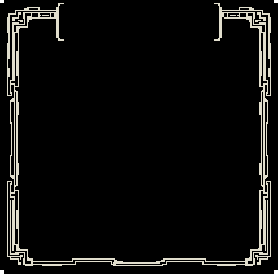
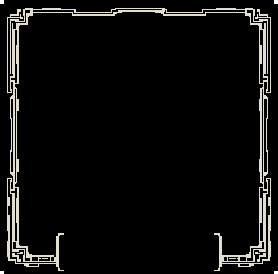
token display in progress

Changed region(s): [[0.0, 0.0, 0.9784, 0.9927]]

diff --git a/components/Marketplace/TokenDisplay.tsx b/components/Marketplace/TokenDisplay.tsx
@@ -10,9 +10,15 @@ const wizData = wizards as { [wizardId: string]: any };
 const ListingDisplay = styled.div`
   width: 200px;
   height: 300px;
-  margin: var(--sp0);
+  margin: var(--sp2);
   display: flex;
   flex-direction: column;
+
+  border-image-source: url(/static/img/newframe.png);
+  border-image-slice: 30;
+  border-image-width: 34px;
+  border-image-outset: 12;
+  border-style: solid;
 
   @media only screen and (max-width: 600px) {
     width: 150px;
@@ -26,21 +32,18 @@ const ListingDisplay = styled.div`
 `;
 
 const ListingImage = styled.img`
-  border-style: solid;
   border-width: 4px;
-  border-color: var(--darkGray);
-  border-radius: 10px;
+  border-radius: 30px;
 
   min-width: 200px;
   min-height: 200px;
   max-height: 50vw;
   max-width: 50vw;
 
-  padding: var(--sp-1);
+  padding: var(--sp1);
 
   :hover {
     cursor: pointer;
-    border-color: var(--mediumGray);
   }
 
   @media only screen and (max-width: 600px) {
@@ -68,10 +71,13 @@ const MarketText = styled.p`
   
   line-height: 1.3;
   max-width: 20ch;
+  min-height: 5ex;
   display: -webkit-box;
-  -webkit-line-clamp: 1;
+  -webkit-line-clamp: 2;
   -webkit-box-orient: vertical;
   overflow: hidden;
+
+  margin-bottom: var(--sp-1);
 
   @media only screen and (max-width: 600px) {
     max-width: 15ch;
@@ -86,7 +92,8 @@ const PriceDisplay = styled.div`
 
   display: flex;
   flex-direction: row;
-  justify-content: space-between;
+  justify-content: center;
+  text-align: center;
 `;
 
 const MarketIcon = styled.img`
@@ -102,6 +109,8 @@ const MarketIcon = styled.img`
   }
 
 `;
+
+//{ source in MARKETS && <MarketIcon src={MARKETS[source].image} title={MARKETS[source].name}/> }
 
 export default function TokenDisplay({
   contract,
@@ -177,9 +186,8 @@ export default function TokenDisplay({
           }}
         >
           <div 
-            style={{display: 'flex', flexDirection: 'row', justifyContent: 'space-between', alignItems: 'center'}}>
+            style={{display: 'flex', flexDirection: 'row', justifyContent: 'center', alignItems: 'center', textAlign: 'center'}}>
             <MarketText title={name}>{name}</MarketText>
-            { source in MARKETS && <MarketIcon src={MARKETS[source].image} title={MARKETS[source].name}/> }
           </div>
           <PriceDisplay>
             {price &&

diff --git a/pages/new/[contractSlug].tsx b/pages/new/[contractSlug].tsx
@@ -22,7 +22,7 @@ const MidHeader = styled.div`
   align-items: center;
   justify-content: center;
 
-  margin-top: -4ch;
+  margin-top: -8ch;
   margin-bottom: var(--sp1);
 `;
 
@@ -39,6 +39,13 @@ const ScrollContainer = styled.div`
   overflow: hidden;
 
   padding-bottom: 200px;
+`;
+
+const Scrim = styled.div`
+  position: absolute;
+  z-index: 1;
+  bottom: -5px;
+  max-width: 65%;
 `;
 
 export default function Marketplace({
@@ -119,10 +126,6 @@ export default function Marketplace({
         description={`Like ${CONTRACTS[contract].singular}, Buy ${CONTRACTS[contract].singular}`}
         image={`/static/img/marketplace/${CONTRACTS[contract].display.toLowerCase()}-banner.png`}
       >
-        <MidHeader>
-          <CollectionStats items={items} floor={floor} bid={bid} contract={contract} />
-          <MainToggle contract={contract} activity={showActivity} />
-        </MidHeader>
         <Main>
           <Sidebar 
             contract={contract} 
@@ -133,6 +136,10 @@ export default function Marketplace({
             selectionChange={null}
           />
           <div style={{width: '65vw'}}>
+          <MidHeader>
+          <CollectionStats items={items} floor={floor} bid={bid} contract={contract} />
+          <MainToggle contract={contract} activity={showActivity} />
+        </MidHeader>
           { listings.length > 0 || loaded ? (
               <InfiniteScroll
                 dataLength={listings.length}
@@ -167,6 +174,9 @@ export default function Marketplace({
                       )
                     );
                   })}
+                  <Scrim>
+                    <Image src='/static/img/scrim.png' height='283px' width='1155px' />
+                  </Scrim>
                 </ScrollContainer>
               </InfiniteScroll>
           ) : (

diff --git a/styles/root.css b/styles/root.css
@@ -90,6 +90,10 @@ a:hover {
   color: var(--lightGray);
 }
 
+p {
+  margin: 0;
+}
+
 .pointer {
   transition: all 200ms;
 }
